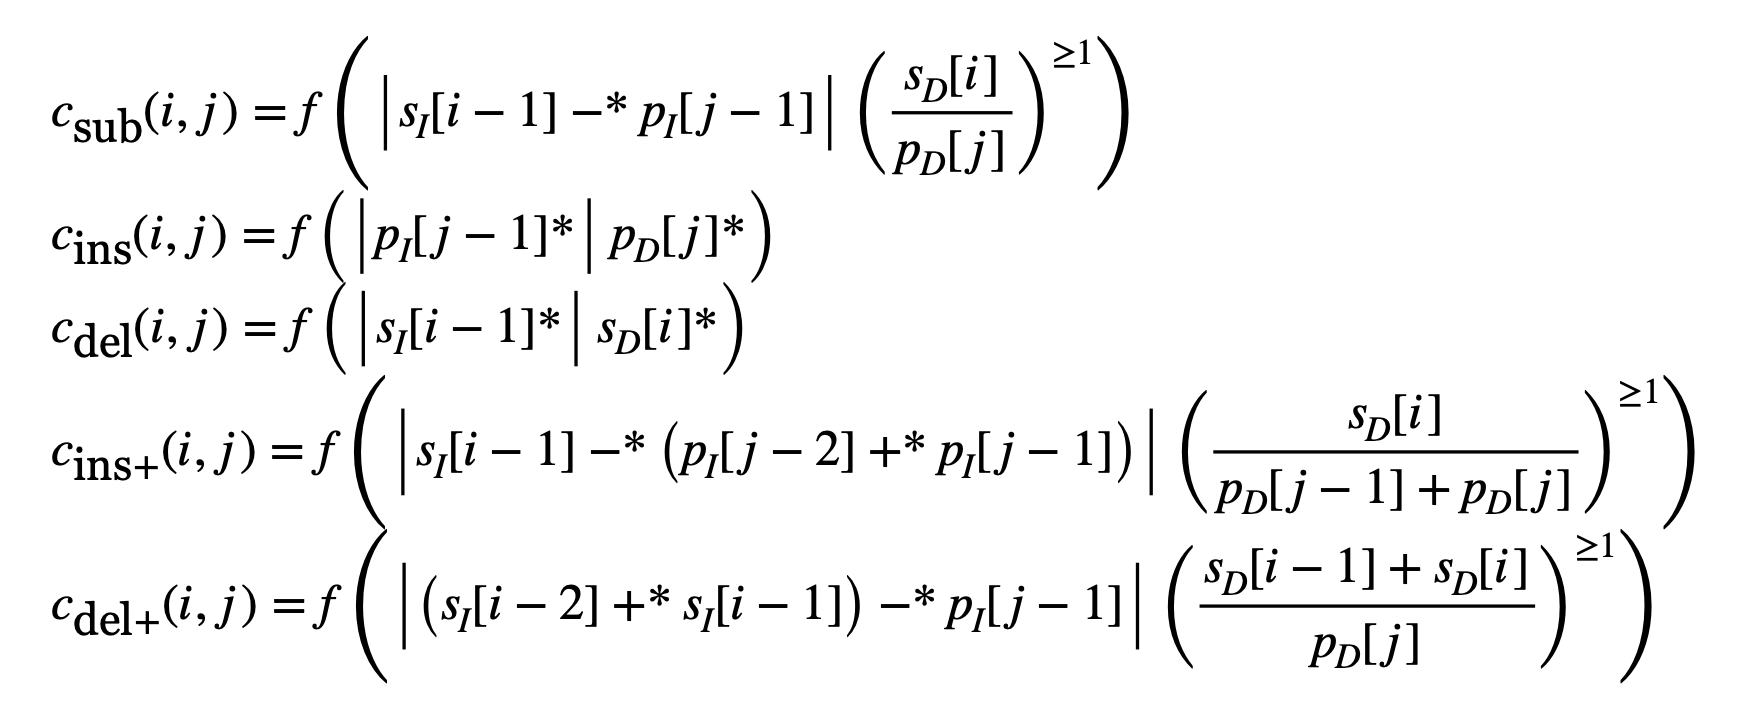
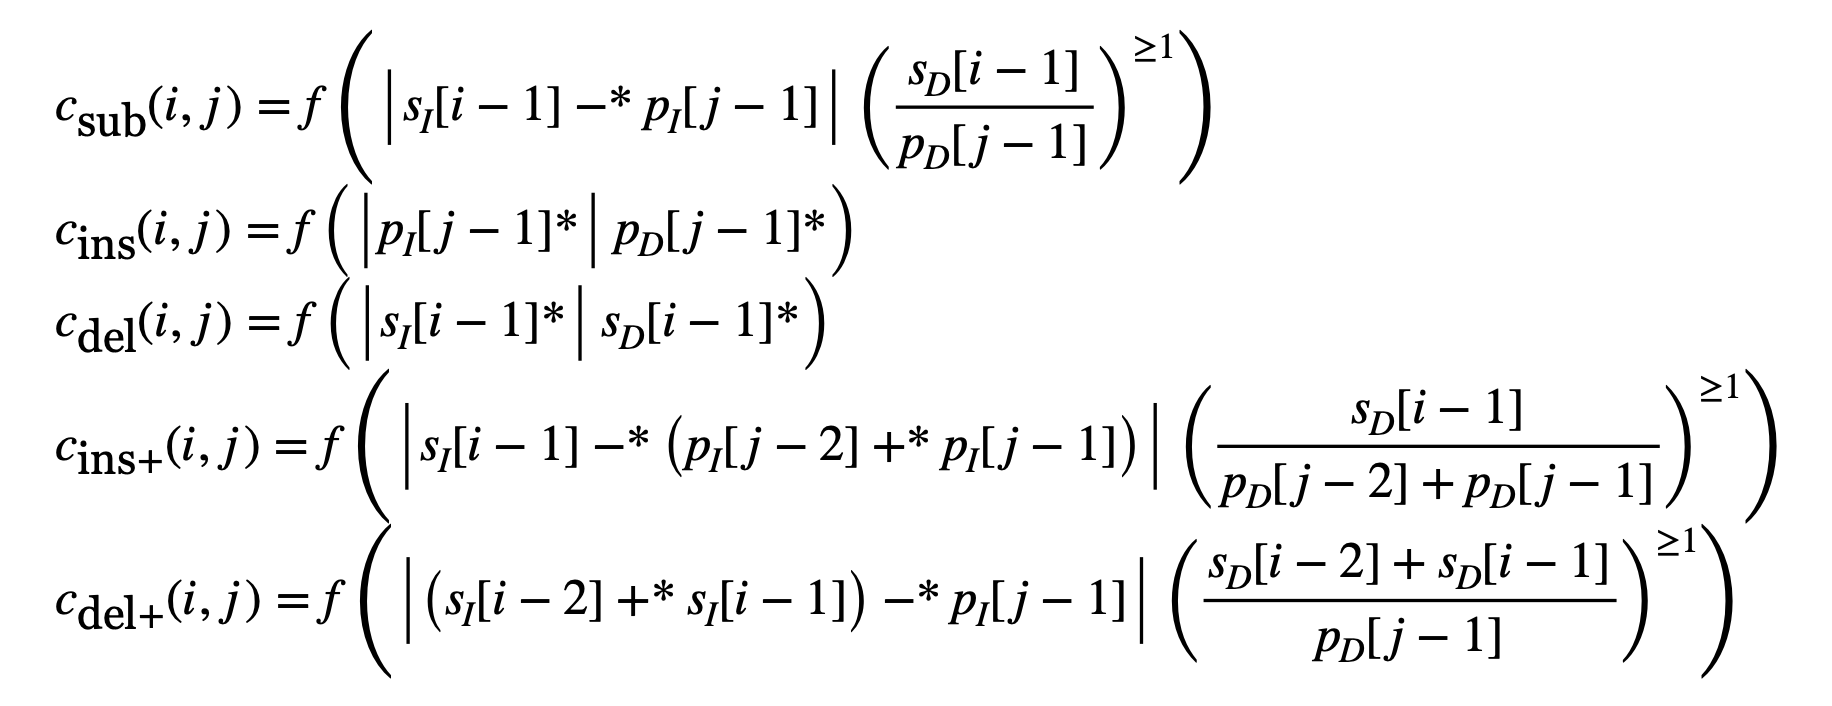
Change duration calculation from left-associativity to right

Changed region(s): [[0.0309, 0.0312, 0.9588, 0.9348], [0.9278, 0.8725, 0.9588, 0.966], [0.9278, 0.5297, 0.9897, 0.5921]]

diff --git a/algorithm/model/distance_metrics.py b/algorithm/model/distance_metrics.py
@@ -73,7 +73,7 @@ class DistanceMetrics:
         sentinel: Any = float("inf"),
     ) -> float:
         interval_cost = cls._safe_sub(edit_window.stream_intervals[cur_i - 1], edit_window.pattern_intervals[cur_j - 1])
-        duration_cost = cls._abs_mul(edit_window.stream_durations[cur_i], edit_window.pattern_durations[cur_j])
+        duration_cost = cls._abs_mul(edit_window.stream_durations[cur_i - 1], edit_window.pattern_durations[cur_j - 1])
         return memo[cur_i - 1][cur_j - 1] + cls._combine_costs(interval_cost, duration_cost, scale)
 
     @classmethod
@@ -91,7 +91,7 @@ class DistanceMetrics:
         return (
             memo[cur_i][cur_j - 1]
             + cls._combine_costs(
-                abs(edit_window.pattern_intervals[cur_j - 1]), edit_window.pattern_durations[cur_j], scale
+                abs(edit_window.pattern_intervals[cur_j - 1]), edit_window.pattern_durations[cur_j - 1], scale
             )
             + cls.BASE_INSERTION_PENALTY
         )
@@ -122,8 +122,8 @@ class DistanceMetrics:
             - edit_window.stream_intervals[cur_i - 1]
         )
         duration_cost = cls._abs_mul(
-            edit_window.pattern_durations[cur_j - 1] + edit_window.pattern_durations[cur_j],
-            edit_window.stream_durations[cur_i],
+            edit_window.pattern_durations[cur_j - 2] + edit_window.pattern_durations[cur_j - 1],
+            edit_window.stream_durations[cur_i - 1],
         )
         return (
             memo[cur_i - 1][cur_j - 2]
@@ -146,7 +146,7 @@ class DistanceMetrics:
         return (
             memo[cur_i - 1][cur_j]
             + cls._combine_costs(
-                abs(edit_window.stream_intervals[cur_i - 1]), edit_window.stream_durations[cur_i], scale
+                abs(edit_window.stream_intervals[cur_i - 1]), edit_window.stream_durations[cur_i - 1], scale
             )
             + cls.BASE_DELETION_PENALTY
         )
@@ -177,8 +177,8 @@ class DistanceMetrics:
             - edit_window.pattern_intervals[cur_j - 1]
         )
         duration_cost = cls._abs_mul(
-            edit_window.stream_durations[cur_i - 1] + edit_window.stream_durations[cur_i],
-            edit_window.pattern_durations[cur_j],
+            edit_window.stream_durations[cur_i - 2] + edit_window.stream_durations[cur_i - 1],
+            edit_window.pattern_durations[cur_j - 1],
         )
         return (
             memo[cur_i - 2][cur_j - 1]

diff --git a/README.md b/README.md
@@ -23,6 +23,14 @@ Perform visual music-based fugal analysis using subjects, countersubjects, and t
 
 Requires: **python-3.10+**
 
+Create virtual environment:
+```bash
+pip install virtualenv
+virtualenv -p python3 venv3
+source venv3/bin/activate
+```
+
+Install supplementary libraries:
 ```bash
 pip install -r requirements.txt
 ```
@@ -156,7 +164,7 @@ Observe that, unlike typical edit distance, there are two additional cases at th
 
 Operators and values marked with an **asterisk** denote edge case handling for rests in the music where intervals are not applicable (i.e. interval between note and rest does not exist). These edge cases are important and do actually affect the outcome of the matching results.
 
-**Absolute differences** between the intervals are used to model *interval similarity*. Expressions marked with $\ge 1$ are something I call **absolute divisors**. They are the multiplicative analog of the idea of *absolute difference*. The numerator and denominator are chosen from the arguments such that the expression evaluates to a number $\ge 1$. This helps scale the costs in proportion to the durations of the notes being compared. Note that the indices for $s_D$ and $p_D$ are $1$ higher than those for $s_I$ and $p_I$ because the list of *durations* is $1$ larger in size than the list of *intervals*.
+**Absolute differences** between the intervals are used to model *interval similarity*. Expressions marked with $\ge 1$ are something I call **absolute divisors**. They are the multiplicative analog of the idea of *absolute difference*. The numerator and denominator are chosen from the arguments such that the expression evaluates to a number $\ge 1$. This helps scale the costs in proportion to the durations of the notes being compared.
 
 Finally, a scaling function $f$ is applied to the absolute difference to level off cost as the difference grows. The function is typically $f(x)=\sqrt{cx}$ for some $c\in\mathbb{N^+}$ to avoid one single large interval deviation from preventing the pattern from matching.
 
